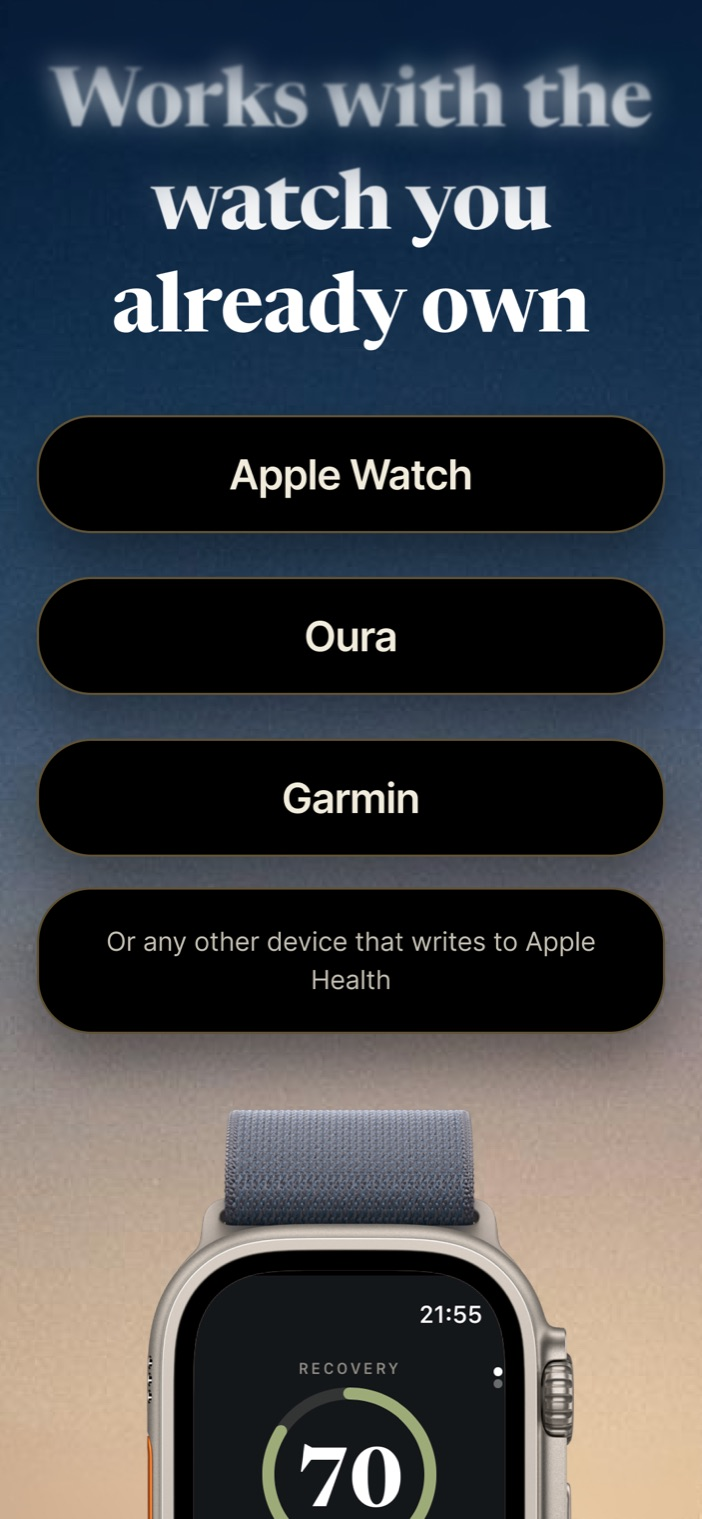
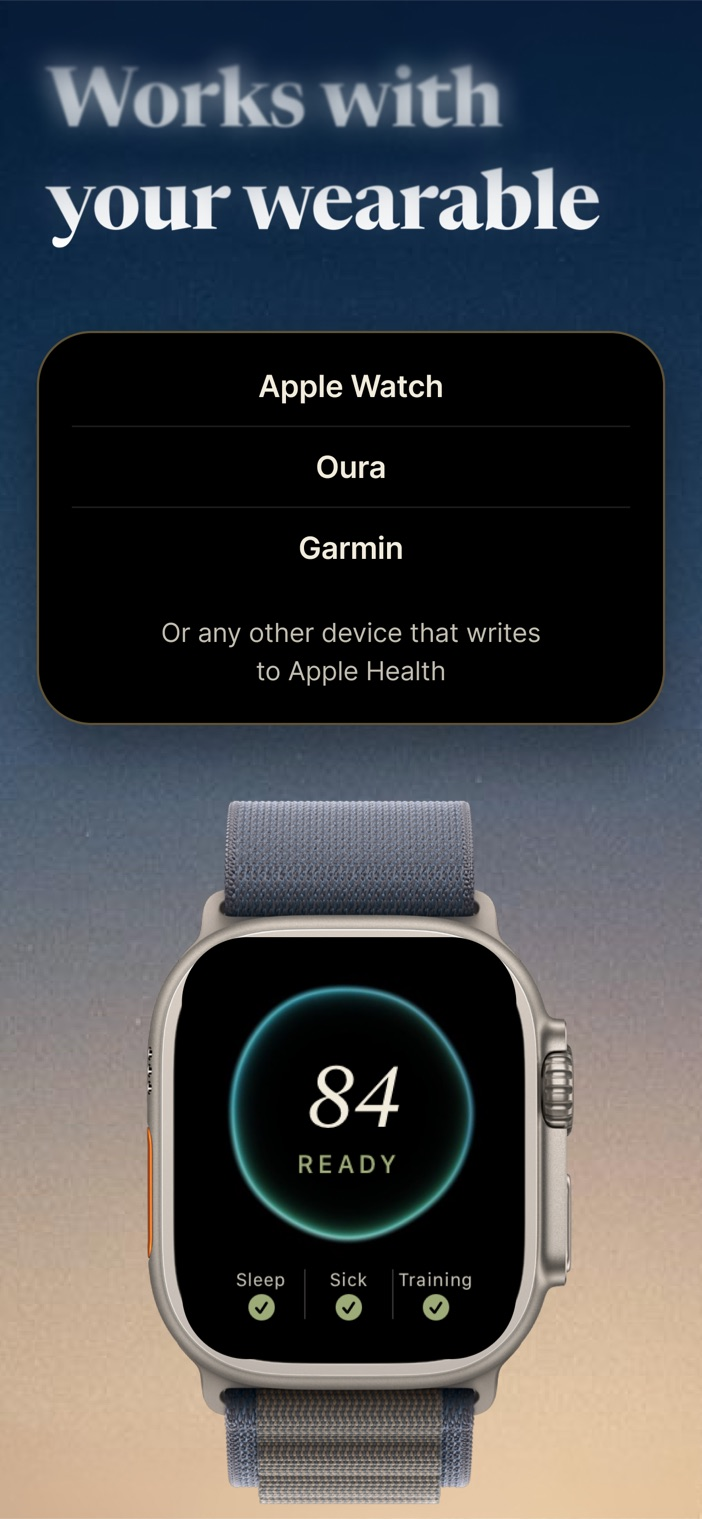
Sajten: 4.0-skärmdumparna (App Store-setet 09-22) + nya alt-texter

diff --git a/index.html b/index.html
@@ -650,16 +650,16 @@
 
     <div class="gallery" aria-label="Screenshots from the app">
       <div class="track" id="track">
-        <figure class="shot"><img src="screens/screen-1.jpg" alt="Seven questions your body answers every morning — the Today, answered matrix" decoding="async" /></figure>
-        <figure class="shot"><img src="screens/screen-2.jpg" alt="One score that tells you how hard to go today — the daily recovery orb" decoding="async" /></figure>
-        <figure class="shot"><img src="screens/screen-3.jpg" alt="Your answers, on your wrist — recovery and today's answers on Apple Watch" decoding="async" /></figure>
-        <figure class="shot"><img src="screens/screen-4.jpg" alt="Your watch tracks your training, Woah explains. A run, the question why it felt hard, and the answer in plain words" loading="lazy" decoding="async" /></figure>
-        <figure class="shot"><img src="screens/screen-5.jpg" alt="Coaching, not guilt — calm, personal daily notifications" loading="lazy" decoding="async" /></figure>
-        <figure class="shot"><img src="screens/screen-6.jpg" alt="Two people, two mornings — both partners' recovery, side by side" loading="lazy" decoding="async" /></figure>
-        <figure class="shot"><img src="screens/screen-7.jpg" alt="Set a goal, get a plan, ask your body anything — the Woah Coach reading your recovery trend" loading="lazy" decoding="async" /></figure>
-        <figure class="shot"><img src="screens/screen-8.jpg" alt="Works with the watch you already own — Apple Watch, Oura, Garmin, or any device that writes to Apple Health" loading="lazy" decoding="async" /></figure>
-        <figure class="shot"><img src="screens/screen-9.jpg" alt="All your health decoded — recovery, sleep and lifestyle scores, fitness age, coach, habits, tank, trends, partner and widgets" loading="lazy" decoding="async" /></figure>
-        <figure class="shot"><img src="screens/screen-10.jpg" alt="Your night, your real age — sleep score, hypnogram and fitness age" loading="lazy" decoding="async" /></figure>
+        <figure class="shot"><img src="screens/screen-1.jpg" alt="Your wearable, in plain English: one score every morning, ask your data anything, recover with your partner" decoding="async" /></figure>
+        <figure class="shot"><img src="screens/screen-2.jpg" alt="The recovery orb reading 86 out of 100, ready, with the morning's line from Woah AI" decoding="async" /></figure>
+        <figure class="shot"><img src="screens/screen-3.jpg" alt="Answers every morning: recovery 84 on Apple Watch and today's answers, train, sleep, illness, sleep debt, wind-down and steps" decoding="async" /></figure>
+        <figure class="shot"><img src="screens/screen-4.jpg" alt="Ask your body anything: questions for the Woah AI coach, from why a run felt hard to planning the week around a training goal" loading="lazy" decoding="async" /></figure>
+        <figure class="shot"><img src="screens/screen-5.jpg" alt="Compare your data: two runs side by side, or two months of health data, with the coach" loading="lazy" decoding="async" /></figure>
+        <figure class="shot"><img src="screens/screen-6.jpg" alt="Two people, two mornings: both partners' recovery orbs on one screen" loading="lazy" decoding="async" /></figure>
+        <figure class="shot"><img src="screens/screen-7.jpg" alt="Recover together: both partners' sleep scores and who needs sleep, training and support today" loading="lazy" decoding="async" /></figure>
+        <figure class="shot"><img src="screens/screen-8.jpg" alt="Works with your wearable: Apple Watch, Oura, Garmin, or any device that writes to Apple Health" loading="lazy" decoding="async" /></figure>
+        <figure class="shot"><img src="screens/screen-9.jpg" alt="All your health decoded: recovery, sleep and lifestyle scores, fitness age and longevity, AI coach, habits, tank, trends, partner, Apple Watch and widgets" loading="lazy" decoding="async" /></figure>
+        <figure class="shot"><img src="screens/screen-10.jpg" alt="They try it, they love it: three five-star reviews from the App Store" loading="lazy" decoding="async" /></figure>
       </div>
     </div>
 
